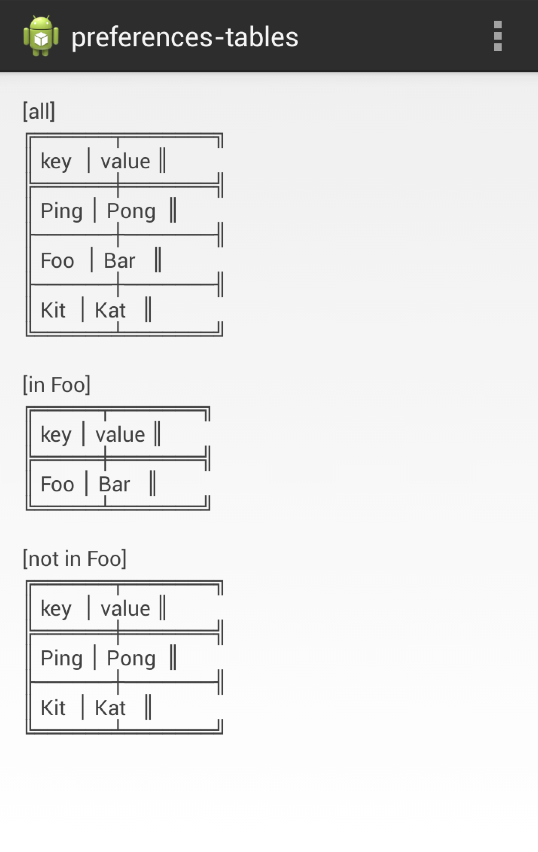
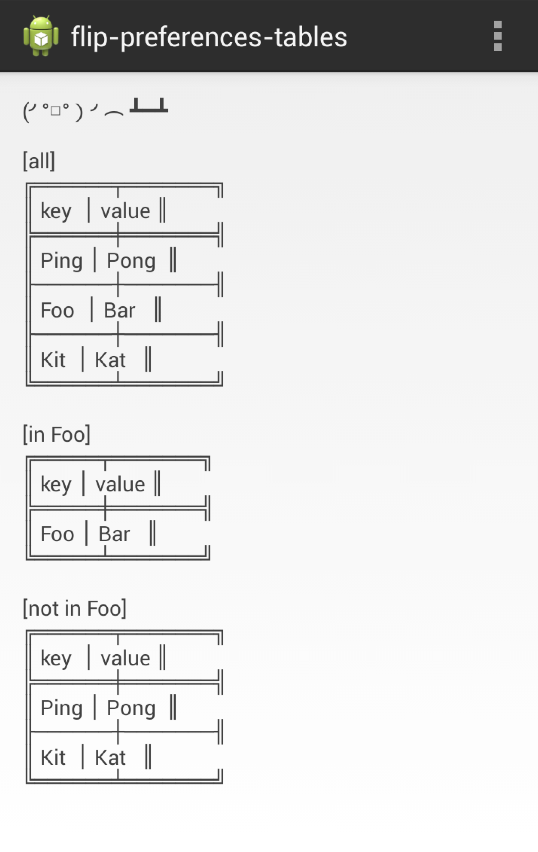
Rename 'preferences-tables' -> 'flip-preferences-tables'

diff --git a/sample/src/main/java/rejasupotaro/flippreferencestables/MainActivity.java b/sample/src/main/java/rejasupotaro/flippreferencestables/MainActivity.java
@@ -1,4 +1,4 @@
-package rejasupotaro.preferencestables;
+package rejasupotaro.flippreferencestables;
 
 import android.content.Context;
 import android.content.SharedPreferences;
@@ -20,6 +20,7 @@ public class MainActivity extends ActionBarActivity {
         writeDummyDate(prefs);
 
         StringBuilder builder = new StringBuilder();
+        builder.append("(╯°□°）╯︵ ┻━┻\n\n");
         builder.append("[all]\n");
         builder.append(PreferencesTables.makeTable(prefs).all().toString());
         builder.append("\n");

diff --git a/sample/src/main/java/rejasupotaro/flippreferencestables/PreferencesTables.java b/sample/src/main/java/rejasupotaro/flippreferencestables/PreferencesTables.java
@@ -1,4 +1,4 @@
-package rejasupotaro.preferencestables;
+package rejasupotaro.flippreferencestables;
 
 import com.jakewharton.fliptables.FlipTables;
 

diff --git a/sample/src/main/java/rejasupotaro/flippreferencestables/KeyValue.java b/sample/src/main/java/rejasupotaro/flippreferencestables/KeyValue.java
@@ -1,4 +1,4 @@
-package rejasupotaro.preferencestables;
+package rejasupotaro.flippreferencestables;
 
 public class KeyValue {
 
